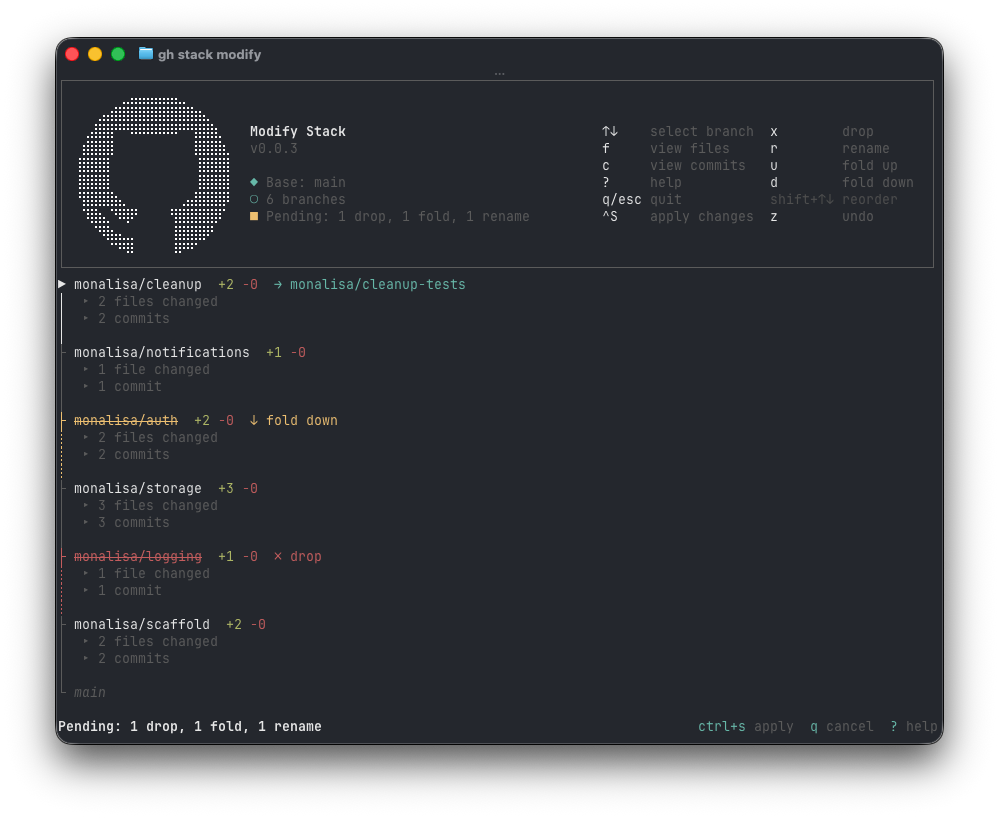
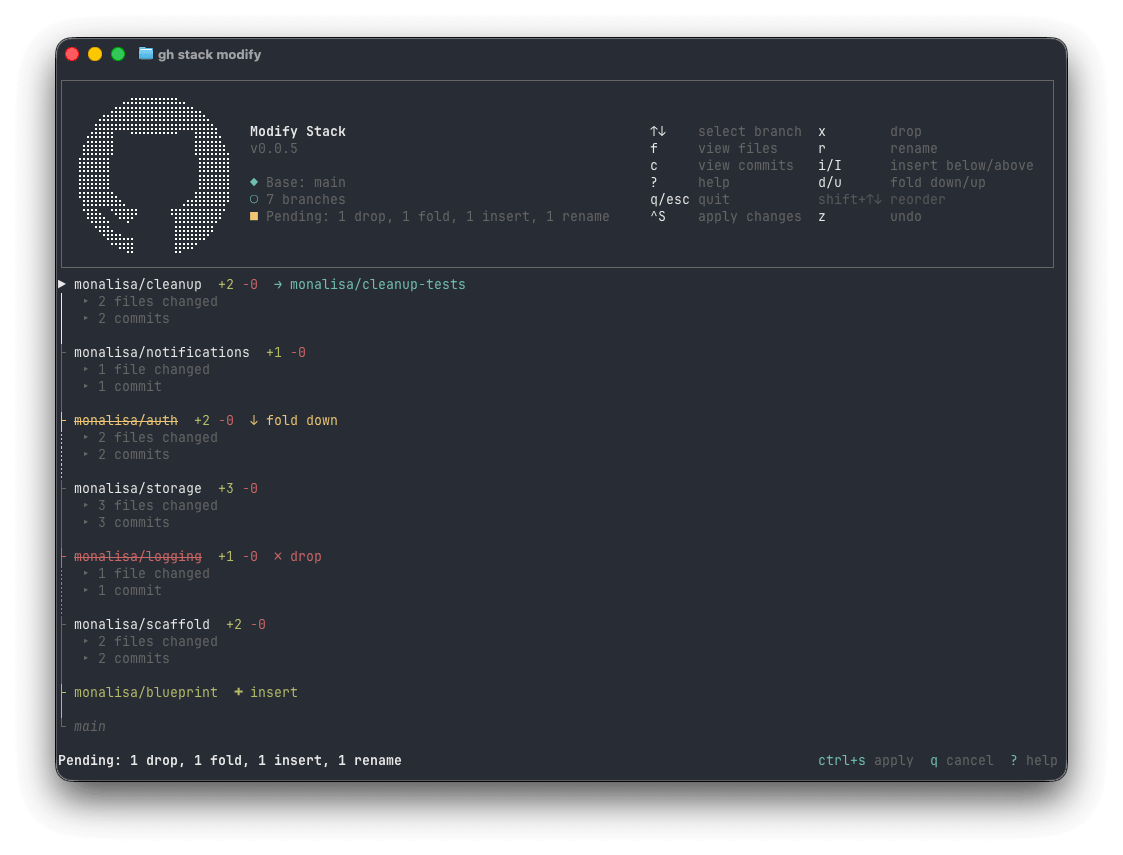
docs updates

diff --git a/docs/src/content/docs/guides/modify.md b/docs/src/content/docs/guides/modify.md
@@ -3,7 +3,7 @@ title: Restructuring Stacks
 description: How to use `gh stack modify` to restructure a stack.
 ---
 
-`gh stack modify` provides an interactive terminal UI for restructuring a stack locally. You can drop, fold, rename, and reorder branches and then apply all your changes at once.
+`gh stack modify` provides an interactive terminal UI for restructuring a stack locally. You can drop, fold, insert, rename, and reorder branches and then apply all your changes at once.
 
 ![The modify stack terminal UI](../../../assets/screenshots/modify-stack-tui.png)
 
@@ -12,6 +12,7 @@ description: How to use `gh stack modify` to restructure a stack.
 Use `modify` when you need to:
 - **Remove** a branch from the stack
 - **Combine** two branches into one
+- **Insert** a new branch into the stack
 - **Rename** a branch
 - **Reorder** branches
 
@@ -46,13 +47,17 @@ Absorbs the selected branch's commits into the branch below it (toward trunk) vi
 
 Absorbs the selected branch's commits into the branch above it (away from trunk). Since the branch above already contains the folded branch's commits in its history, this is handled by adjusting what is considered the first unique commit for the branch. The folded branch is removed from the stack.
 
+### Insert below / above (`i` / `I`)
+
+Inserts a new empty branch into the stack at the cursor position. Lowercase `i` inserts below the cursor (toward trunk); uppercase `I` inserts above the cursor (away from trunk). An inline prompt appears to enter the new branch name. The branch is created at apply time, pointing at the parent branch's tip.
+
 ### Rename (`r`)
 
 Opens an inline prompt to enter a new name for the branch. The branch is renamed locally and in the stack metadata. On the next `submit`, the new branch name is pushed to GitHub.
 
 ### Reorder (`Shift+↑`/`Shift+↓`)
 
-Moves the selected branch up (away from trunk) or down (toward trunk) in the stack. A cascading rebase adjusts all affected branches. Note: reordering and structural changes (drop/fold/rename) cannot be mixed in the same session.
+Moves the selected branch up (away from trunk) or down (toward trunk) in the stack. A cascading rebase adjusts all affected branches. Note: reordering and structural changes (drop/fold/insert/rename) cannot be mixed in the same session.
 
 ### Undo (`z`)
 
@@ -60,7 +65,7 @@ Reverses the most recent staged action. You can undo multiple times to step back
 
 ## Applying changes
 
-Press `Ctrl+S` to apply all staged changes. Nothing is modified until you save. The apply phase renames branches, folds/drops branches, and runs a cascading rebase to create a linear commit history with the desired stack state.
+Press `Ctrl+S` to apply all staged changes. Nothing is modified until you save. The apply phase renames branches, inserts new branches, folds/drops branches, and runs a cascading rebase to create a linear commit history with the desired stack state.
 
 ### Handling conflicts
 
@@ -94,8 +99,7 @@ This also works if `modify` was interrupted (e.g., terminal crash). A pre-modify
 ## Limitations
 
 - Cannot modify merged branches (they are locked)
-- Cannot add new branches (use `gh stack add` instead)
 - Cannot split a branch into multiple branches
 - Cannot move branches between different stacks
 - Requires an interactive terminal
-- Reordering and structural changes (drop/fold/rename) cannot be mixed in the same session
+- Reordering and structural changes (drop/fold/insert/rename) cannot be mixed in the same session

diff --git a/README.md b/README.md
@@ -245,7 +245,7 @@ Interactively restructure the current stack.
 gh stack modify [flags]
 ```
 
-Opens a terminal UI for restructuring a stack. You can rename, drop, reorder, and fold branches into adjacent ones. All the changes are staged during the preview and applied at once on save.
+Opens a terminal UI for restructuring a stack. You can drop, fold, insert, rename, and reorder branches. All the changes are staged during the preview and applied at once on save.
 
 If the stack of PRs has been created on GitHub, run `gh stack submit` afterwards to push the changes and recreate the stack.
 
@@ -259,6 +259,7 @@ If the stack of PRs has been created on GitHub, run `gh stack submit` afterwards
 - **Drop** (`x`): Remove a branch and its commits from the stack. Local branch and associated PR are preserved.
 - **Fold down** (`d`): Absorb a branch's commits into the branch below (toward trunk). Folded branch removed from stack.
 - **Fold up** (`u`): Absorb a branch's commits into the branch above (away from trunk). Folded branch removed from stack.
+- **Insert** (`i`/`I`): Insert a new empty branch into the stack. `i` inserts below the cursor; `I` inserts above.
 - **Reorder** (`Shift+↑`/`Shift+↓`): Move a branch up (away from trunk) or down (toward trunk) in the stack.
 - **Rename** (`r`): Rename a branch locally and in the stack metadata.
 - **Undo** (`z`): Undo the last staged action.
@@ -272,7 +273,8 @@ If the stack of PRs has been created on GitHub, run `gh stack submit` afterwards
 | `c` | View commits |
 | `x` | Drop branch |
 | `r` | Rename branch |
-| `u/d` | Fold branch up/down |
+| `i/I` | Insert branch below/above |
+| `d/u` | Fold branch down/up |
 | `Shift+↑`/`Shift+↓` | Move branch up/down |
 | `z` | Undo last action |
 | `Ctrl+S` | Apply all changes |

diff --git a/docs/src/content/docs/reference/cli.md b/docs/src/content/docs/reference/cli.md
@@ -192,6 +192,8 @@ The command checks these conditions before opening the TUI:
 | Drop | `x` | Remove branch and its commits from stack. Local branch and associated PR are preserved. |
 | Fold down | `d` | Absorb commits into branch below (toward trunk). Folded branch removed from stack. |
 | Fold up | `u` | Absorb commits into branch above (away from trunk). Folded branch removed from stack. |
+| Insert below | `i` | Insert a new empty branch below the cursor (toward trunk). |
+| Insert above | `I` | Insert a new empty branch above the cursor (away from trunk). |
 | Move down | `Shift+↓` | Reorder branch down (toward trunk) in the stack |
 | Move up | `Shift+↑` | Reorder branch up (away from trunk) in the stack |
 | Rename | `r` | Rename the branch (opens inline prompt) |
@@ -199,7 +201,7 @@ The command checks these conditions before opening the TUI:
 
 **Apply phase:**
 
-When you press `Ctrl+S`, the staged changes are applied by renaming branches, folding/dropping branches, and running a cascading rebase to create a linear commit history with the desired stack state.
+When you press `Ctrl+S`, the staged changes are applied by renaming branches, inserting new branches, folding/dropping branches, and running a cascading rebase to create a linear commit history with the desired stack state.
 
 If a rebase conflict occurs, you can:
 - Resolve conflicts, stage files, and run `gh stack modify --continue`
@@ -234,7 +236,7 @@ You must have a branch from the stack checked out locally. The command targets t
 
 Deletes the stack on GitHub first, if it exists, then removes it from local tracking. If the remote deletion fails, the local state is left untouched so you can retry. Use `--local` to skip the remote deletion and only remove local tracking.
 
-This is useful when you need to restructure a stack — remove a branch, reorder branches, rename branches, or make other large changes. After unstacking, use `gh stack init` to re-create the stack with the desired structure — existing branches are adopted automatically.
+This is useful when you need to restructure a stack — remove a branch, insert a branch, reorder branches, rename branches, or make other large changes. After unstacking, use `gh stack init` to re-create the stack with the desired structure — existing branches are adopted automatically.
 
 | Flag | Description |
 |------|-------------|

diff --git a/docs/src/content/docs/faq.md b/docs/src/content/docs/faq.md
@@ -33,7 +33,7 @@ You can also add PRs to an existing stack from the GitHub UI. See [Adding to an 
 
 ### How can I modify my stack?
 
-Use `gh stack modify` to restructure a stack. It opens an interactive terminal UI where you can reorder, drop, fold (combine), and rename branches — then applies all changes at once. See the [Restructuring Stacks](/gh-stack/guides/modify/) guide for a full walkthrough.
+Use `gh stack modify` to restructure a stack. It opens an interactive terminal UI where you can reorder, drop, fold (combine), insert, and rename branches — then applies all changes at once. See the [Restructuring Stacks](/gh-stack/guides/modify/) guide for a full walkthrough.
 
 Alternatively, you can manually tear down and re-create the stack with `gh stack unstack` and `gh stack init`:
 
@@ -41,7 +41,7 @@ Alternatively, you can manually tear down and re-create the stack with `gh stack
 # 1. Remove the stack
 gh stack unstack
 
-# 2. Make structural changes (reorder, rename, delete branches)
+# 2. Make structural changes (reorder, rename, insert, delete branches)
 git branch -m api-roots api-routes
 
 # 3. Re-create the stack with the new structure

diff --git a/docs/src/content/docs/guides/workflows.md b/docs/src/content/docs/guides/workflows.md
@@ -299,7 +299,7 @@ All branches in a stack should be part of the same feature or project. If you ne
 
 ## Restructuring a Stack
 
-When you need to change the composition of a stack — remove a branch, combine branches, change the order, or rename a branch — use `gh stack modify`:
+When you need to change the composition of a stack — remove a branch, combine branches, insert a new branch, change the order, or rename a branch — use `gh stack modify`:
 
 ```sh
 # Open the modify TUI
@@ -309,6 +309,8 @@ gh stack modify
 #   x     → drop a branch
 #   d     → fold down (into branch below)
 #   u     → fold up (into branch above)
+#   i     → insert below
+#   I     → insert above
 #   Shift+↑/↓ → reorder
 #   r     → rename
 #   z     → undo

diff --git a/docs/src/content/docs/introduction/overview.md b/docs/src/content/docs/introduction/overview.md
@@ -89,7 +89,8 @@ While the PR UI provides the review and merge experience, the `gh stack` CLI han
 - **Creating PRs** — `gh stack submit` pushes branches and creates or updates PRs, linking them as a Stack on GitHub.
 - **Navigating the stack** — `gh stack up`, `down`, `top`, and `bottom` let you move between layers without remembering branch names.
 - **Syncing everything** — `gh stack sync` fetches, rebases, pushes, and updates PR state in one command.
-- **Tearing down stacks** — `gh stack unstack` removes a stack from GitHub and local tracking if you need to restructure it.
+- **Restructuring stacks** — `gh stack modify` opens an interactive terminal UI to drop, fold, insert, rename, and reorder branches in a stack.
+- **Tearing down stacks** — `gh stack unstack` removes a stack from GitHub and local tracking.
 - **Checking out a stack** — `gh stack checkout <pr-number>` pulls down a stack, with all its branches, from GitHub to your local machine.
 
 The CLI is not required to use Stacked PRs — the underlying git operations are standard. But it makes the workflow simpler, and you can create Stacked PRs from the CLI instead of the UI.

diff --git a/docs/src/content/docs/guides/ui.md b/docs/src/content/docs/guides/ui.md
@@ -93,7 +93,7 @@ Commits created by a server-side rebase are **not signed**. If your repository r
 
 ## Unstacking
 
-If you want to reorder or reorganize the PRs in a stack, you must first dissolve the stack and then re-create it. You can unstack PRs from the UI.
+If you want to reorder or reorganize the PRs in a stack from the UI, you must first dissolve the stack and then re-create it. For CLI users, `gh stack modify` provides an interactive way to [restructure a stack](/gh-stack/guides/modify/) — including reordering, inserting, dropping, and renaming branches — without needing to dissolve it.
 
 ### Dissolving the Entire Stack
 